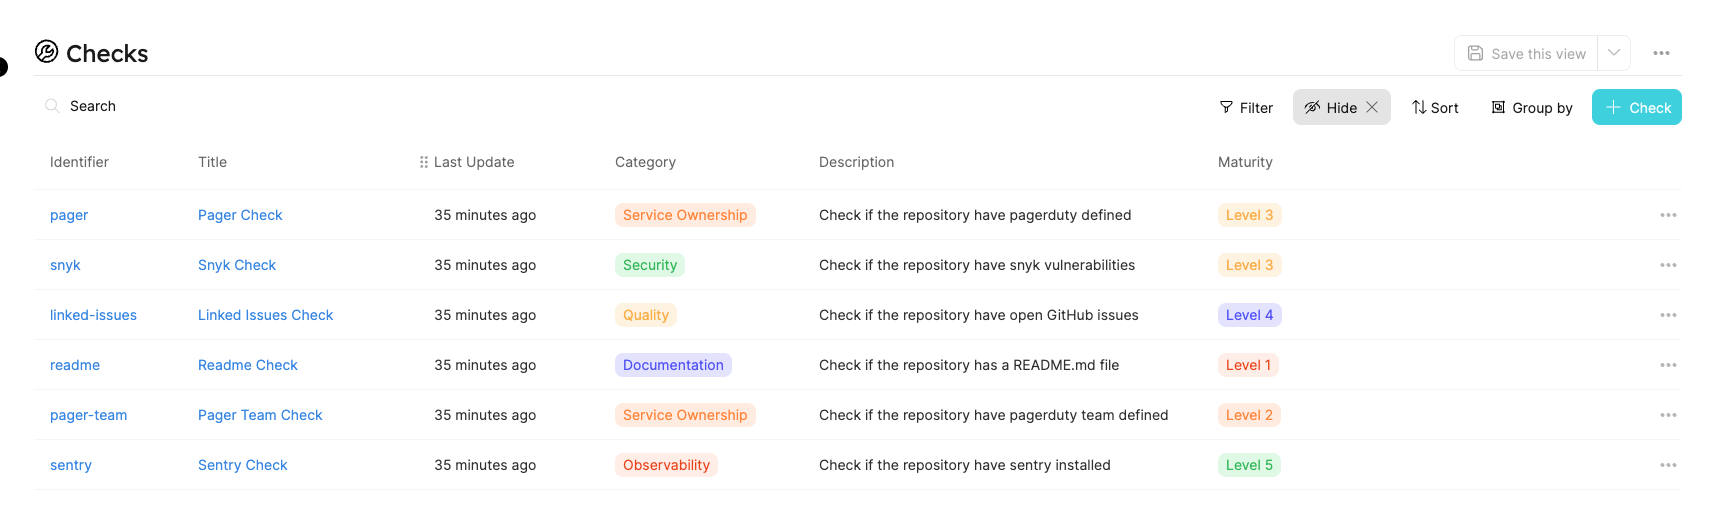
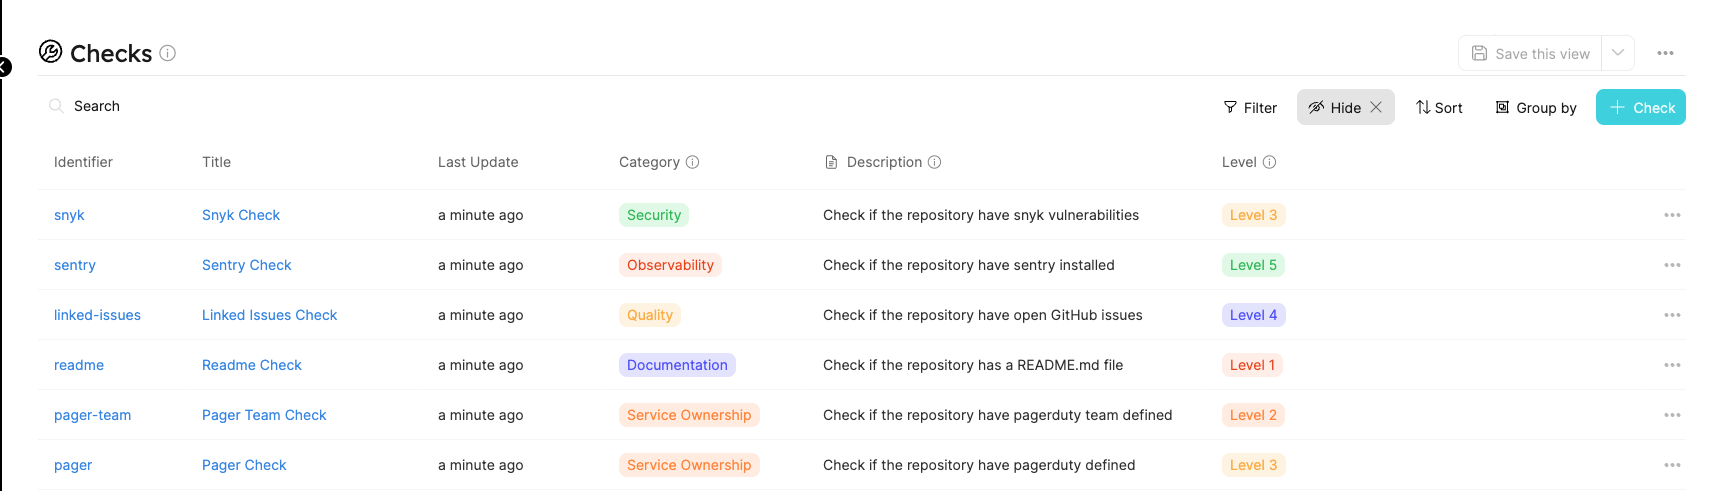
some fixes

diff --git a/docs/complete-use-cases/service-maturity.md b/docs/complete-use-cases/service-maturity.md
@@ -42,7 +42,8 @@ Let's go over the different Blueprints shown below and how we'll create [Entitie
 
 :::note
 
-In this article we are using `Levels` to define the service maturity
+In this article, we are using `Levels` to define the service maturity following a [Levels Model](https://spiresearch.com/psmaturitymodel/service-maturity-levels.html).
+
 But, the `priority` property is made to support any custom naming convention you would like, and it won't affect the actual calculation of the Maturity behind the scenes.
 
 For example, You can rename `Level 1` - `Level 5` to `Bronze` - `Gold` without any problem or required changes
